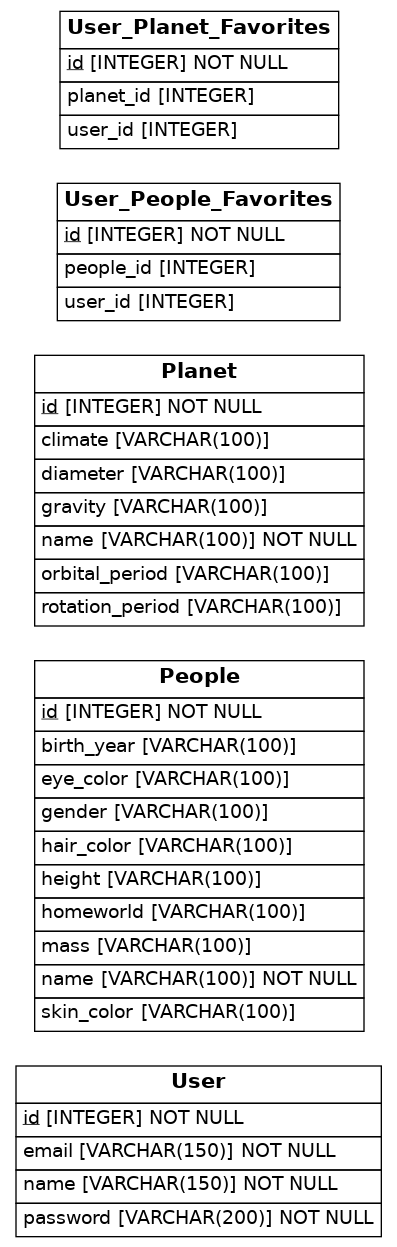
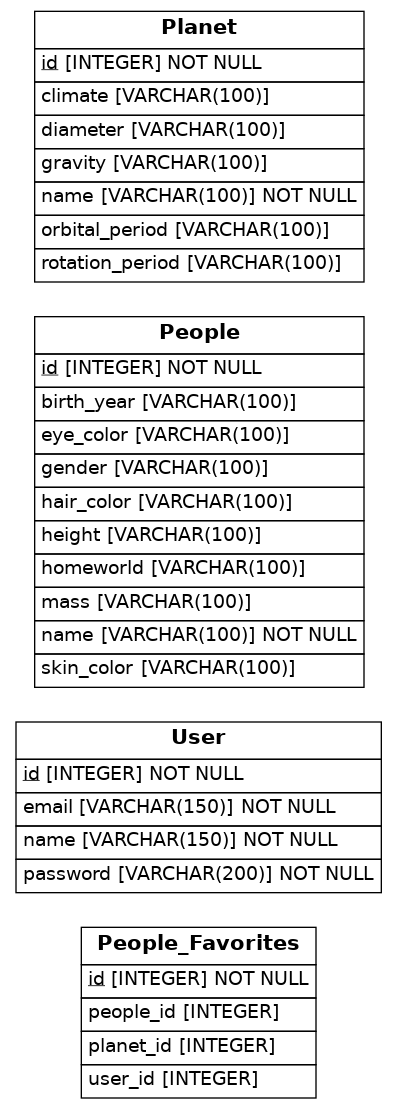
added the relationship in the correct tables

Changed region(s): [[0.0302, 0.0, 0.9673, 1.0]]

diff --git a/src/models.py b/src/models.py
@@ -26,12 +26,20 @@ class Address(Base):
     person = relationship(Person)
 
 '''
+class User_Favorites(Base):
+    __tablename__ = 'People_Favorites'
+    id = Column(Integer, primary_key = True)
+    user_id = Column(Integer, ForeignKey('user.id'))
+    people_id = Column(Integer, ForeignKey('people.id'))
+    planet_id = Column(Integer, ForeignKey('planet.id'))
+
 class User(Base):
     __tablename__ = 'User'
     id = Column(Integer, primary_key = True)
     name = Column(String(150), nullable=False)
     email = Column(String(150), nullable=False)
     password = Column(String(200), nullable=False)
+    favorite = relationship(User_Favorites)
 
 class People(Base):
     __tablename__ = 'People'
@@ -45,6 +53,7 @@ class People(Base):
     birth_year = Column(String(100))
     gender = Column(String(100))
     homeworld = Column(String(100))
+    favorite = relationship(User_Favorites)
 
 class Planet(Base):
     __tablename__ = 'Planet'
@@ -55,24 +64,9 @@ class Planet(Base):
     diameter = Column(String(100))
     climate = Column(String(100))
     gravity = Column(String(100))
+    favorite = relationship(User_Favorites)
 
-class User_People_Favorites(Base):
-    __tablename__ = 'User_People_Favorites'
-    id = Column(Integer, primary_key = True)
-    user_id = Column(Integer, ForeignKey('user.id'))
-    people_id = Column(Integer, ForeignKey('planet.id'))
-    user = relationship(User)
-    people = relationship(People)
-
-class User_Planet_Favorites(Base):
-    __tablename__ = 'User_Planet_Favorites'
-    id = Column(Integer, primary_key = True)
-    user_id = Column(Integer, ForeignKey('user.id'))
-    planet_id = Column(Integer, ForeignKey('planet.id'))
-    user = relationship(User)
-    planet = relationship(Planet)
-
-    def to_dict(self):
+def to_dict(self):
         return {}
 
 ## Draw from SQLAlchemy base
